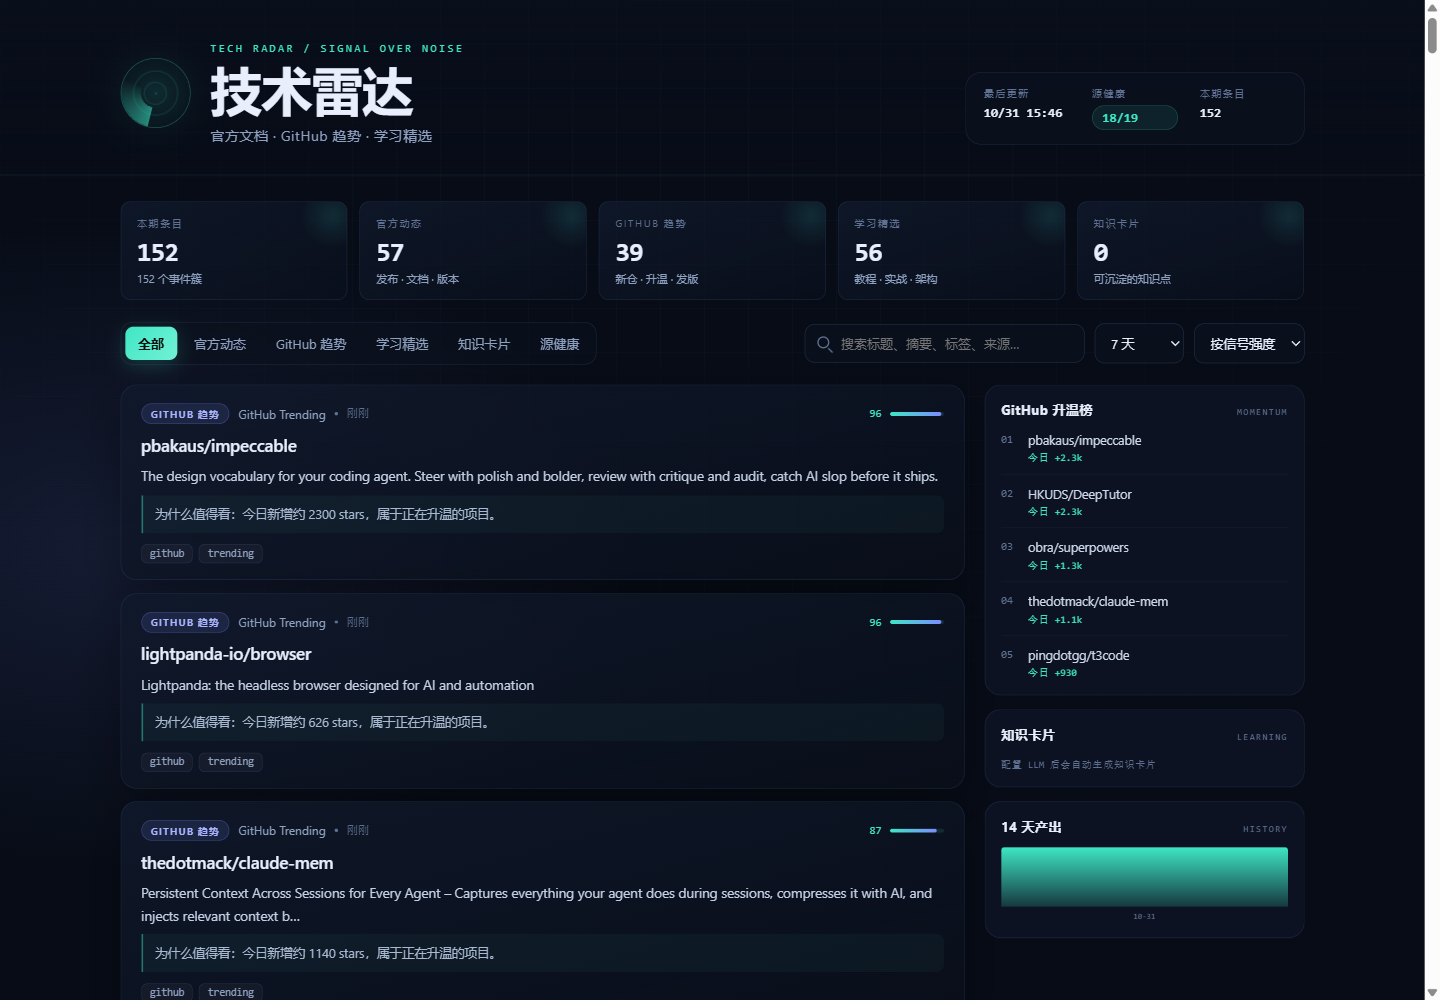
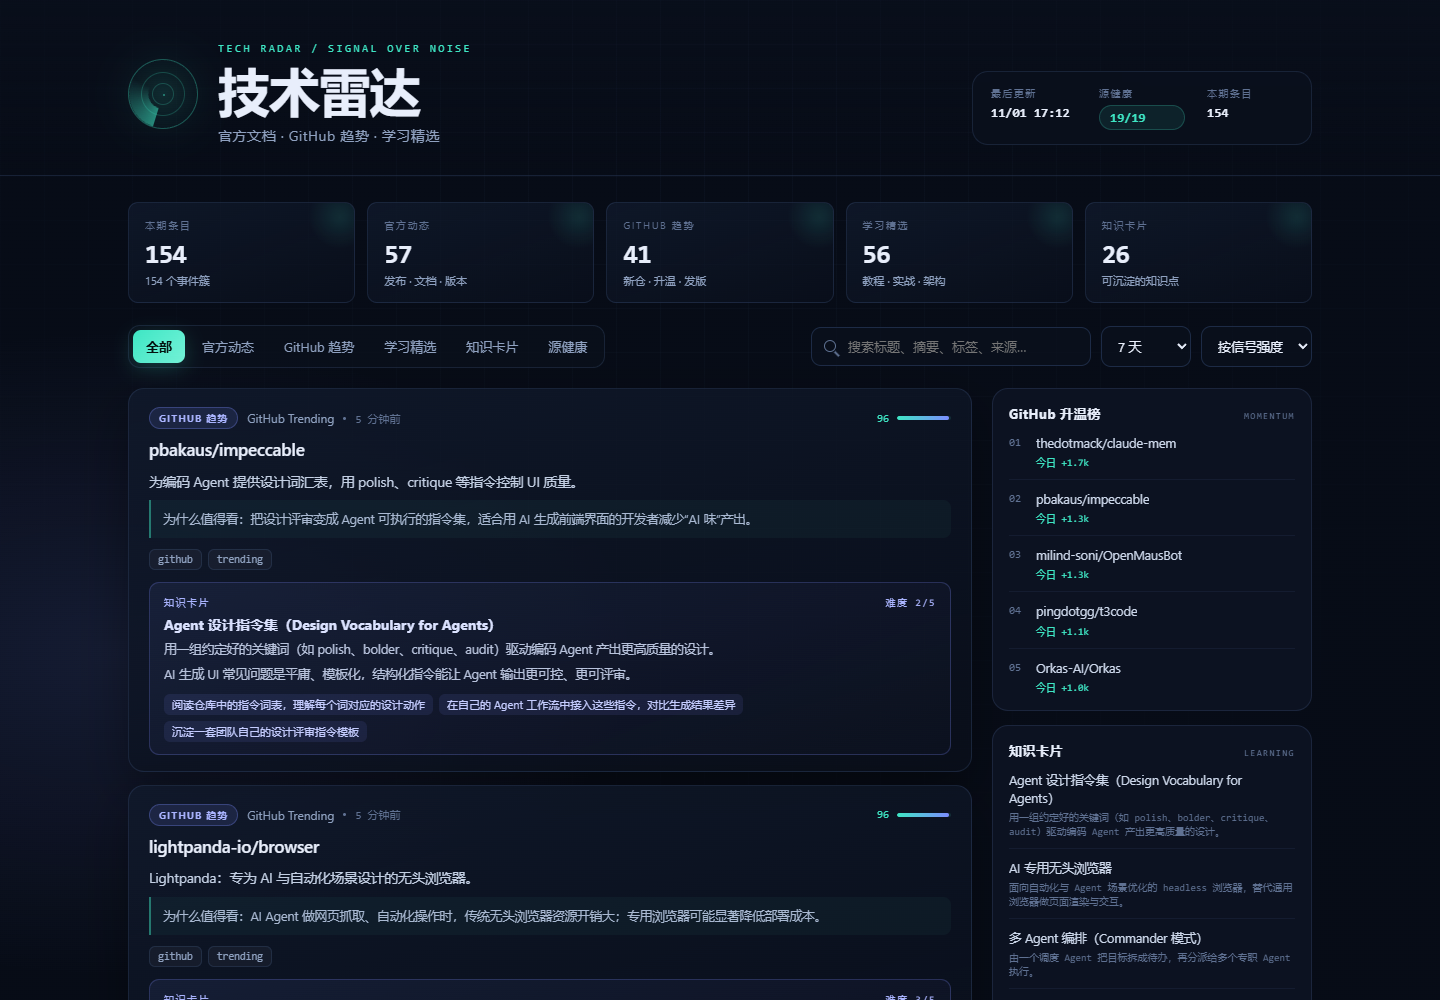
docs: refresh validation record and screenshots

diff --git a/README.md b/README.md
@@ -74,6 +74,8 @@ python -m radar serve --port 8787
 
 打开 <http://127.0.0.1:8787>。演示数据会显示黄色提示条。
 
+也可以直接定位到某个 tab，例如知识卡片：<http://127.0.0.1:8787/?tab=knowledge>（或 `#knowledge`）。
+
 ### 跑真实数据
 
 ```bash
@@ -257,9 +259,9 @@ tech-radar/
 ## 验证记录（2026-10-31）
 
 - `python -m pytest -q` → **23 passed**
-- 本地真实采集（19 个源，多次运行）→ **130–152 条，14–18/19 源健康**（波动来自本机访问 github.com / anthropic.com 的网络）
-- DeepSeek 已接入 → **24 张知识卡片，1 次新调用 + 29 次缓存命中，0 报错**；未命中 LLM 的条目自动降级
-- Obsidian 导出 → `AI\04-资料库\AI工具雷达\2026-10-31-技术雷达.md`（23KB，含知识卡片、三层条目、源健康）
+- 最近一次运行（2026-11-01）→ **154 条，19/19 源健康**（1 个 baseline）；此前多次运行 130–152 条，网络波动时 14–18/19
+- DeepSeek 已接入 → **26 张知识卡片，3 次新调用 + 10 次缓存命中，0 报错**；未命中 LLM 的条目自动降级
+- Obsidian 导出 → `AI\04-资料库\AI工具雷达\2026-11-01-技术雷达.md`（22KB，含 26 张知识卡片、三层条目、源健康）
 - 演示数据 → **11 条，4 张知识卡片**
 - 仪表盘 tabs、搜索、时间筛选、源健康页已用浏览器实测
 - 单个源临时失败时，上一轮条目会**缓存续用**并在卡片上标注「缓存」，健康页仍显示 error

diff --git a/docs/changes/2026-10-31-技术雷达v1/README.md b/docs/changes/2026-10-31-技术雷达v1/README.md
@@ -76,9 +76,9 @@
 | 验证项 | 结果 |
 |---|---|
 | 单元测试 | `python -m pytest -q` → **23 passed** |
-| 真实采集（本机，19 源，多次运行） | **130–152 条**；14–18/19 源健康；波动来自本机访问 github.com / anthropic.com 的网络 |
-| DeepSeek 接入 | **24 张知识卡片，1 次新调用 + 29 次缓存命中，0 报错**；未命中条目自动降级 |
-| Obsidian 导出 | `AI\04-资料库\AI工具雷达\2026-10-31-技术雷达.md`（23KB）；标记块外的手写内容不会被覆盖 |
+| 最近一次真实采集（2026-11-01，19 源） | **154 条，19/19 源健康**（1 个 baseline）；此前多次运行 130–152 条，网络波动时 14–18/19 |
+| DeepSeek 接入 | **26 张知识卡片，3 次新调用 + 10 次缓存命中，0 报错**；未命中条目自动降级 |
+| Obsidian 导出 | `AI\04-资料库\AI工具雷达\2026-11-01-技术雷达.md`（22KB，26 张卡片）；标记块外的手写内容不会被覆盖 |
 | 演示模式 | `python -m radar demo` → 11 条、4 张知识卡片，UI 正常 |
 | 页面功能 | 浏览器实测：6 个 tab、搜索、24h/7d/30d 筛选、按时间排序、源健康表 |
 | 控制台 | 无 JS 错误（仅 favicon 404，已用内联 SVG 修复） |
